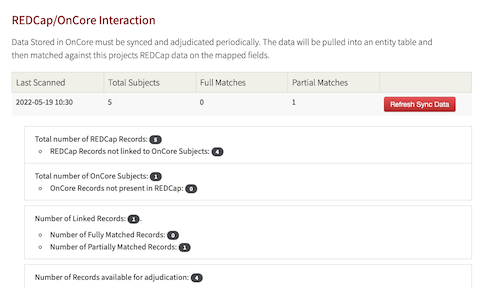
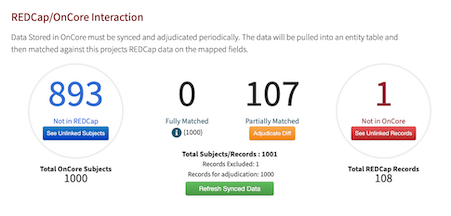
Update README.md with new UI images

diff --git a/README.md b/README.md
@@ -1,26 +1,27 @@
 # OnCoreIntegration
 
-Many institutions use the OnCore system by Advarra to manage their clinical trials and also use REDCap to store and
-capture participant data. Linking these two systems by automating the transfer of participants between the two systems.
-This External Module automates the transfer of participant data in a study from REDCap to OnCore and OnCore to REDCap.
+Many institutions use the OnCore system by Advarra to manage their clinical trials and also use REDCap to capture and store
+participant data. Linking these two systems, by automating the transfer of participants between the two systems,
+will increase efficiency and reduce errors.
+This REDCap External Module (EM) automates the transfer of participant data in a study between REDCap to OnCore.
 
-This REDCap external module will periodically scan REDCap projects to see if an IRB number is entered. If a number is
-entered, then OnCore will be scanned for protocols that have the same IRB number.
+This EM will periodically scan REDCap projects to see if an IRB number is entered into the Project Settings page.
+When entered, then OnCore will be scanned for protocols that have the same IRB number.
 If a match is found, an option to link the 2 projects will be presented to REDCap users so that Subject data can be
-shared between the two. The data on the OnCore side will always be the "Source of Truth".
+shared between the two. The data on the OnCore side will always be considered the "Source of Truth".
 
-## External Modules System wide Setup
+## External Module Systemwide Setup
 
-The institution using this Module will need to set up the module on system level before allowing REDCap users to use it.
-Here is a list required configuration:
+Institutions using this Module will need to set up system level settings before allowing REDCap projects to enable it.
+Below is a list of required configurations which must be entered into the EM System Settings page:
 
 1. Base OnCore URL. e.g. `https://oncore.[INSTITUTIONS-NAME].edu`
 2. OnCore API Auth URN to generate access tokens. e.g. `forte-platform-web/api/oauth/token`
 3. OnCore API URN to get data from API. e.g `oncore-api/rest/`
-4. Global OnCore API user client_id. please refer to OnCore documentation on how to generate client_id.
-5. Global OnCore API user client_secret. please refer to OnCore documentation on how to generate client_secret.
-6. JSON Object that defines OnCore fields properties. [Link to fields exmaple](#oncore-fields-definition-example).
-    1. Note: Following fields are required by OnCore API and can NOT be empty or undefined.
+4. Global OnCore API user client_id. Please refer to OnCore documentation on how to generate a client_id.
+5. Global OnCore API user client_secret. Please refer to OnCore documentation on how to generate a client_secret.
+6. JSON Object that defines OnCore fields properties.  [Link to example](#oncore-fields-definition-example)
+    1. Note: The following fields are **required** by OnCore API and can NOT be empty or undefined.
         1. mrn
         2. gender
         3. ethnicity
@@ -32,18 +33,21 @@ Here is a list required configuration:
     1. The EM matches REDCap user with OnCore contact using username. **Please Note OnCore Contact API does not return
        Contact username.You MUST define REDCap username under AddtionalIds field**
 8. Define OnCore Protocol statuses that are allowed to push to OnCore via API.
-9. Define the study sites you want REDCap users to pick from.
+9. Define OnCore Protocol study sites you want REDCap users to pick from.
 
-## Prerequisites
+## Prerequisites and Limitations
 
-In order to link OnCore and REDCap projects, there are a few requirements which must be satisfied:
+When using this module, there are a few items to be aware of:
 
-1. Currently, non-cancer studies can be linked. The ability to link projects to the Cancer Center may be made in the
-   future but is not yet implemented.
-2. Before the linkage can be made, the study must already be created in OnCore and the study must be in OPEN TO ACCURAL
-   status.
-3. Participants can only be transferred between systems for Per-Participant studies and not for Summary Accural Only
-   studies.
+1. Currently, you can only connect one instance of OnCore to this EM. If your institution uses multiple instances of OnCore,
+you will need to choose which instance to connect.
+2. Before the REDCap project/OnCore linkage can be made, the study must already be created in OnCore
+3. Before being above to push data to OnCore, the OnCore project status must be in one of the allowed
+statuses from 8 above.
+4. Participants can only be transferred between systems for Per-Participant studies. Studies which are Summary Accural Only,
+   are not supported.
+5. When 'pushing' participants from REDCap to OnCore, the subject is associated with study but their status is not **OnStudy**.
+    Currently, the API does not support placing subjects OnStudy in OnCore so this step must be performed manually.
 
 ## Setup
 
@@ -68,9 +72,10 @@ Once the Link Project button is selected, the projects will be linked.
 ### Project Fields
 Subjects are linked to OnCore based on MRNs. In order to bring data from OnCore into your project, you must have an MRN field created in your project. Any additional data fields are optional.
 
-If your project intends to push Subjects from your REDCap project into OnCore, then there are a list
-of fields that are required by OnCore.  If your project does not store all the required fields, the push will not be successful.
+If your project intends to push Subjects from your REDCap project into OnCore, there are a list
+of fields that are required by OnCore.  If your project does not store **ALL** the required fields, the push will not be successful.
 The required fields are:
+
     1. MRN
     2. First Name
     3. Middle Name
@@ -80,28 +85,29 @@ The required fields are:
     7. Race
     8. Ethnicity
     9. Study Site
-    10. Subject Source
 
 ### Using a project template for new REDCap projects
-When new REDCap projects are created which intend to use the OnCore linkage, we encourage users to create the project using the Stanford OnCore Template.
+When new REDCap projects are created which intend to use the OnCore linkage, we encourage users to create the project using an OnCore template project.  The template
+project should include all required fields needed to push data to OnCore. The Stanford OnCore Template xml file is provided in the EM if your institution would like to use
+it as a starting point. This template project can be modified based on each institution's particular OnCore setup.
 
 ![TemplateProject](images/use_template.png)
 
-Using the template will automatically create a form which includes all the Subject Demographic fields that are available from OnCore. This form helps determine which fields
-to use and what the options for each field should be.  Even though the included field options are the only values that OnCore
-includes, users have the freedom to add additional choices.  For instance, the values for gender that OnCore accepts are Male, Female and Unknown.  If your research
-project would like to include Male assigned at Birth and Female assigned at birth, you can add those options to the field.
+Also included in the EM is a zip file with just the Stanford OnCore Demographics form which can be used with existing REDCap projects.  To use this template to create a
+new form in your existing project, select the Upload option on the Online Designer page.
 
-For the Study Sites field, you can delete the options that your study will not use.
+![TemplateForm](images/form_upload.png)
 
-Fields that will not be populated can be deleted.
+Once the form is included in a REDCap project, it can be changed based on project requirements.  For instance, if your research wants more granularity for the Race field and capture Native Hawaiian
+and Other Pacific Islander into separate coded values, you can make that change in the form and map both options to the same OnCore value in the field mapping section.
+
 
 ## Field Mapping
-Once OnCore and REDCap projects are linked, some initial configuration mapping is necessary. Generally, mapping is only performed once
+Once the OnCore and REDCap projects are linked, some initial configuration mapping is necessary. Generally, mapping is only performed once
 but if the data you want stored from OnCore changes or the data you want to push to OnCore changes, you will need
 to revisit the mapping page.
 
-After the OnCore Integration EM is enabled, the Project Setup page has a link to the Field Mapping page:
+The Project Setup page has a link to the Field Mapping page:
 
 ![FirstTimeMappingPage](images/first_mapping.png)
 
@@ -110,19 +116,19 @@ The link is called OnCore Field Mapping.
 
 ![MappingPage](images/field_mapping_link.png)
 
-Once on the Field Mapping page, you can select the option to retrieve (pull) OnCore data and store it in your REDCap project and/or
+The Field Mapping page allows you to select the options to retrieve (pull) OnCore data and store it in your REDCap project and/or
 push data from your REDCap project to OnCore.  You are also able to select the study sites you will use in your project.
 
 
 ### Data Mapping for Pulling OnCore Data
-In order to `PULL` data from OnCore to REDCap, the MRN is required is auto-selected. The REDCap project MRN field needs to be mapped to this OnCore field.
+In order to `PULL` data from OnCore to REDCap, the participant's MRNs are required. The REDCap project MRN field needs to be mapped to the OnCore MRN field.
 In addition to MRN, you may select the relevant OnCore Properties from the drop-down one by one, and select the appropriate REDCap field where that OnCore property will be saved.
 If there are enumerated fields, a second level mapping field will appear so that the individual REDCap options can be mapped to the OnCore options.
 
 ![MappingPull](images/pull_mapping.png)
 
 ### Data Mapping for Pushing REDCap data to OnCore
-In order to `PUSH` Subject data from REDCap to OnCore, there are a **miniumum** set of fields required by mapping a core subset of OnCore Properties to their REDCap counterparts.
+In order to `PUSH` Subject data from REDCap to OnCore, there is a **miniumum** set of fields required by mapping a core subset of OnCore Properties to their REDCap counterparts.
 If the requirements are not met, the push will fail. The minimum set of fields is listed when you go to the <i>Push Data to OnCore</i> tab.
 
 ![MappingPush](images/push_mapping.png)
@@ -140,26 +146,30 @@ To find out which OnCore subjects are not in your new REDCap project, go to the 
 
 ![Manual Sync](images/manual_sync.png)
 
-This page will give an overview of the status of your REDCap and OnCore records as of the <i>Last Scanned</i> timestamp.  To update your project, you may select the
-<i>Refresh Sync Data</i> button to re-scan OnCore and refresh your status.
+This page will give an overview of the status of your REDCap and OnCore records.  To update your project, you may select the
+<i>Refresh Synced Data</i> button to re-scan OnCore and refresh your status.
 
 ![Manual Sync](images/manual_scan_status.png)
 
-Once your project is refreshed, you can go to the <i>Unlinked OnCore Subjects</i> tab and/or the <i>Unlinked REDCap Subjects</i> tab to adjudicate the subjects.
-
-![push_pull Sync](images/sync_data.png)
+Once your project is refreshed, you can go to the <i>See Unlinked Subjects</i> button and/or the <i>See Unlinked Records</i> tab to adjudicate the subjects.
 
 ## Adjudication
 The EM will take the mapping data and do a daily (or manual) scan/sync against the OnCore API using a subject's **MRN** to find matches.  If data is found it will be assigned 3 possible statuses; "Partial Match", "OnCore only", "REDCap only".
 
 ### Partial Match
-The data was found in both the REDCap Project and its OnCore counterpart.  But there was a discrepency in one or more properties/fields.   In these instances, OnCore being the "source of truth" will overwrite the data in the mapped REDCap field unless that subject is "excluded".
+The data was found in both the REDCap Project and its OnCore counterpart.  But there was a discrepency in one or more properties/fields.   In these instances, OnCore, being the "source of truth", will overwrite the data in the mapped REDCap field unless that subject is "excluded".
 
 ### OnCore Only
 Subjects are found in the OnCore Protocol but no matching MRN was found in the REDCap project.  In this instance, all the subjects and their mapped data are pulled into REDCap from OnCore unless "excluded".
 
 ### REDCap Only
-Subjects are found in the REDCap project but no matching MRN was found in the OnCore Protocol.  In this instance all the subjects and their mapped data are pushed into OnCore from REDCap unless "excluded".
+Subjects are found in the REDCap project but no matching MRN was found in the OnCore Protocol.  In this instance all the selected subjects and their mapped data are pushed into OnCore from REDCap unless "excluded".
+
+**NOTE:** When pushing REDCap records to OnCore, the participant will be associated with the OnCore Protocol but will not have the status of OnStudy
+since the current set of APIs do not support changing the status of the OnCore subject.  Therefore, REDCap users
+must go into OnCore and change the status of each pushed participant to be OnStudy.
+
+Until the status update is manually performed in OnCore, those participants will still be displayed as **Not in OnCore**.
 
 ## OnCore Fields Definition Example
 
